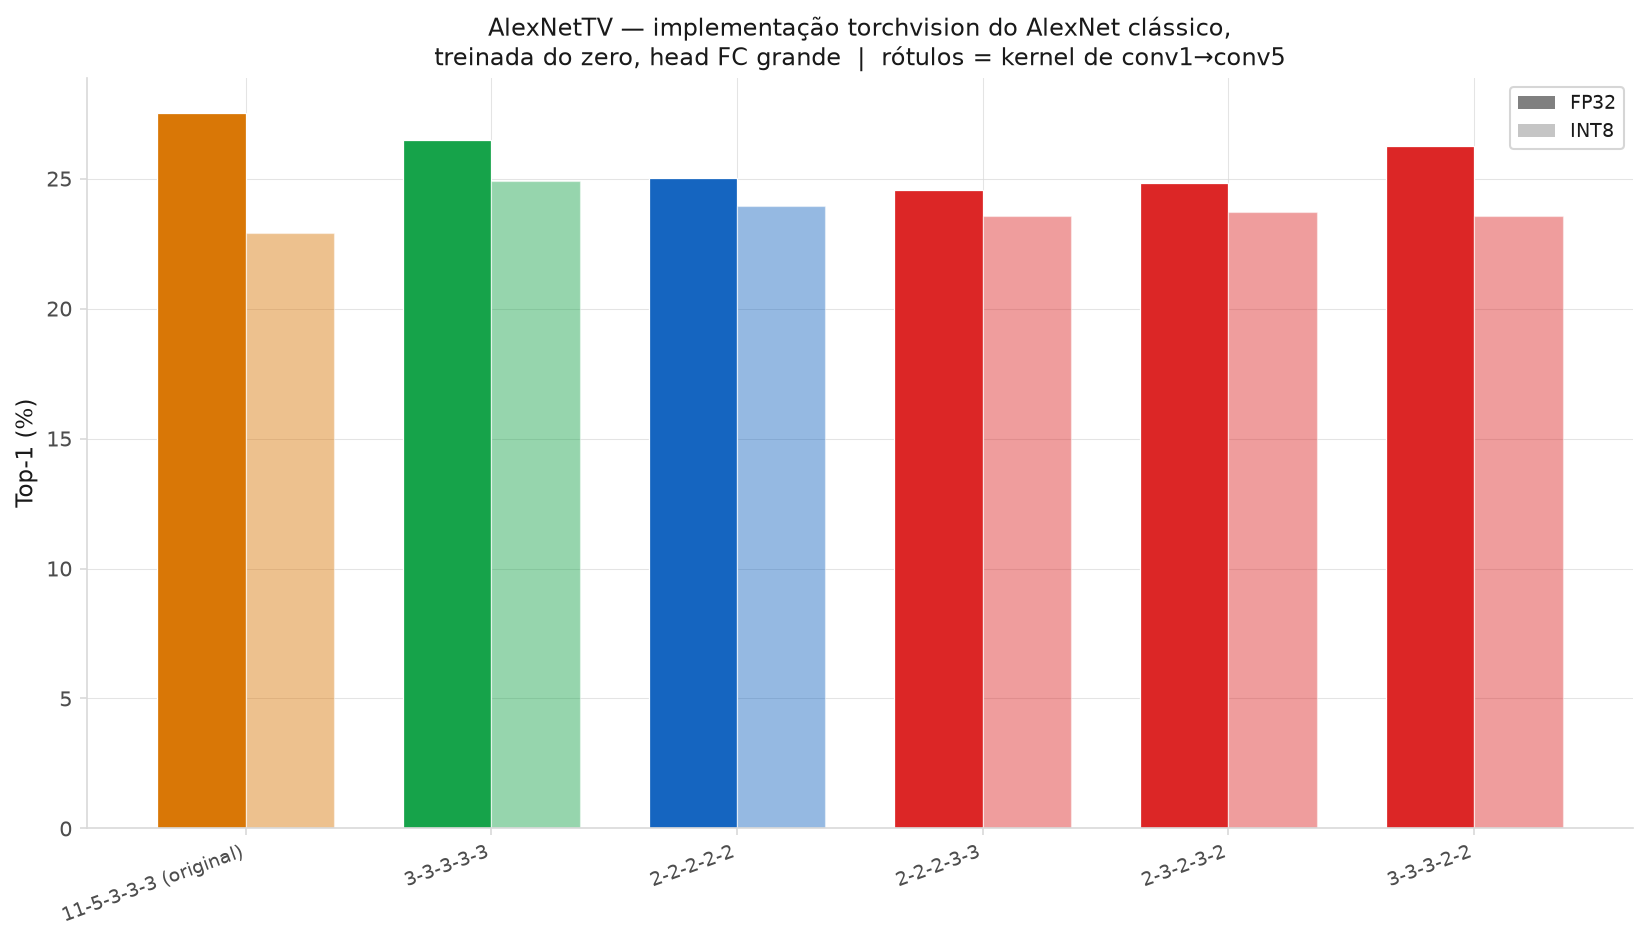
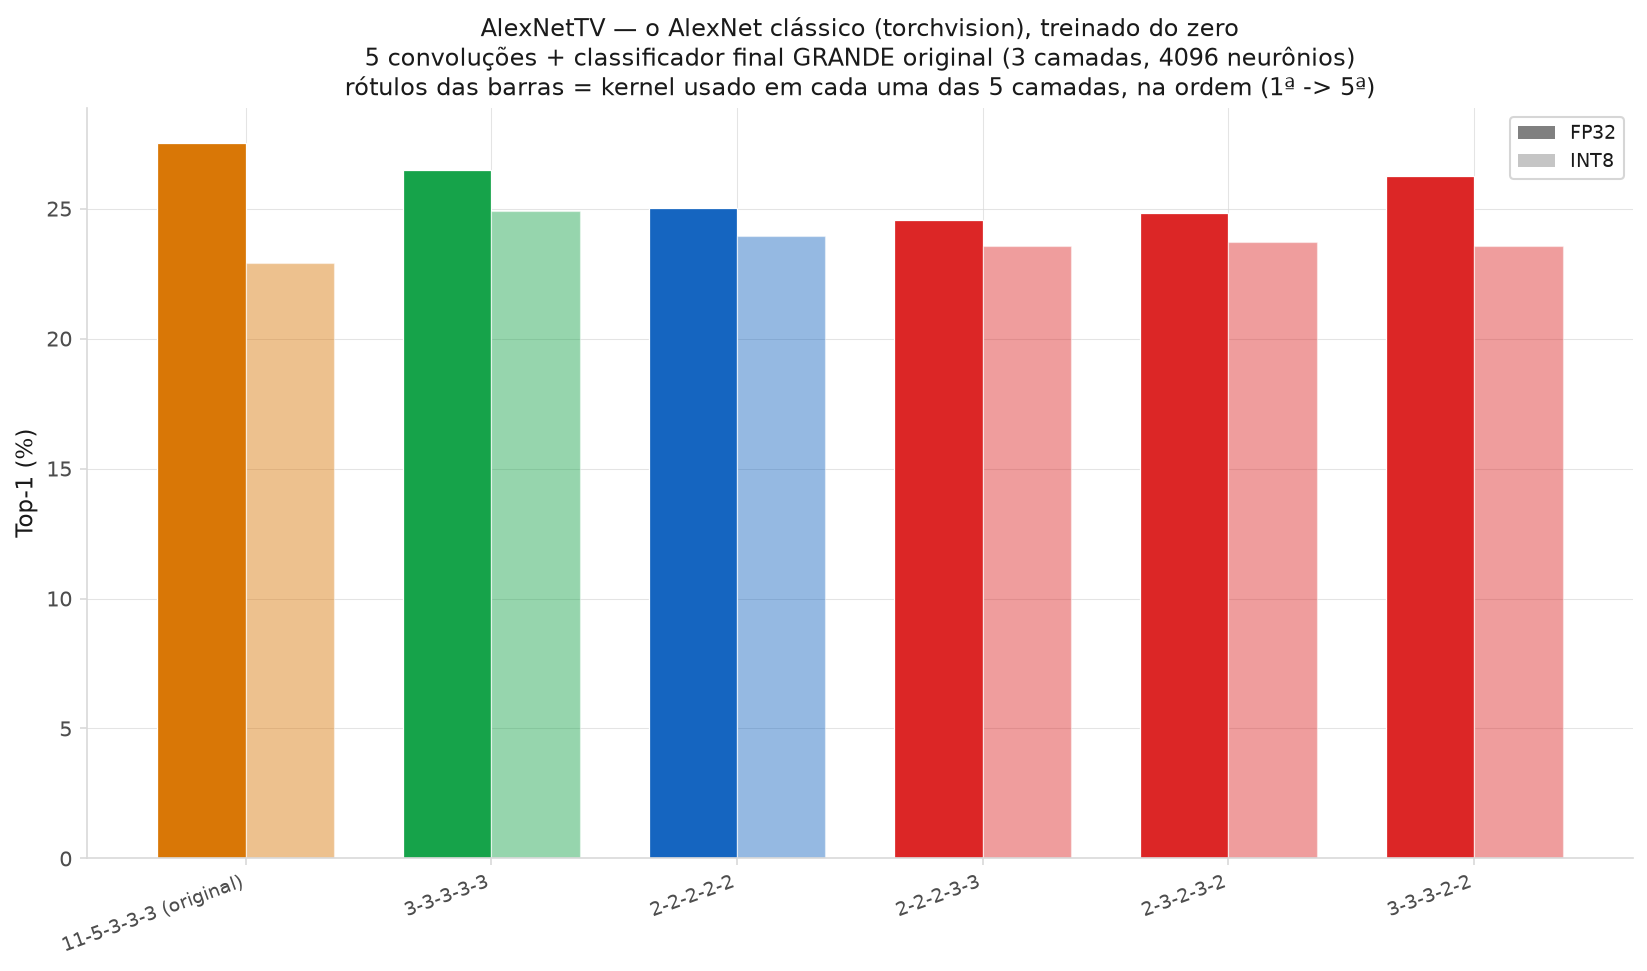
polish: explain "AlexNet compacto" in plain terms, no codebase context needed
Replace file-path/jargon references (models/alexnet_variants.py, "head
GAP/FC") with a plain description anyone can read off the chart: same 5
convolutions as AlexNet, but a 1-layer classifier instead of the original's
3-layer/4096-neuron one -- which is why it's tens of MB smaller. Applied to
chart titles (02-04), the family x-axis labels (05), and the overview's
subtitle explaining the "AlexNet"/"TV"/"VGG16" short tags.

Also widens chart 05's category spacing (0/2.1/4.2 instead of 0/1/2) so the
longer descriptive x-tick labels have room without colliding.

diff --git a/scripts/phase11/plot_kernel_comparison.py b/scripts/phase11/plot_kernel_comparison.py
@@ -108,7 +108,11 @@ def fig_overview(models):
     ax.set_xscale("log")
     ax.set_xlabel("Tamanho do modelo (MB, escala log)")
     ax.set_ylabel("Top-1 (%)")
-    ax.set_title("Visão geral — todos os modelos do Phase 11 (○ FP32  □ INT8, \"G\" = head GAP)")
+    ax.set_title(
+        "Visão geral — todos os modelos do Phase 11 (○ FP32  □ INT8, \"G\" = classificador final enxuto/GAP)\n"
+        "\"AlexNet\" = versão enxuta (classificador final de 1 camada)   "
+        "\"TV\"/\"VGG16\" = classificador final grande (3 camadas)",
+        fontsize=12)
     bar_group_legend(ax, outside=True)
     savefig(fig, "01_overview_accuracy_vs_size.png")
 
@@ -142,14 +146,16 @@ def fig_family_bar(models, family, filename, title):
 def fig_2x2_vs_3x3(models):
     families = ["AlexNet compacto (Phase 2)", "AlexNetTV", "VGG16"]
     # Each x-tick spells out exactly which network + head this bar pair is, so the
-    # chart stands on its own without needing charts 02-04 open alongside it.
+    # chart stands on its own without needing charts 02-04 open alongside it. Positions
+    # are spread out (not 0,1,2) so the 2-line descriptions have room, not overlap.
     family_desc = {
-        "AlexNet compacto (Phase 2)": "AlexNet compacto (Phase 2)\nCNN própria do projeto\n(models/alexnet_variants.py)\nhead GAP, 5 convs",
-        "AlexNetTV": "AlexNetTV\ntorchvision, treinado do zero\n(models/baselines.py)\nhead FC grande, 5 convs",
-        "VGG16": "VGG16\ntorchvision, treinado do zero\n(models/baselines.py)\nhead FC, 13 convs",
+        "AlexNet compacto (Phase 2)": "AlexNet compacto (Phase 2)\nclassificador final ENXUTO (1 camada)\n-> modelo pequeno, poucos MB",
+        "AlexNetTV": "AlexNetTV\nclassificador final GRANDE\n(3 camadas, 4096 neurônios) -> ~220 MB",
+        "VGG16": "VGG16 (rede mais profunda, 13 convs)\nclassificador final GRANDE\n(3 camadas) -> ~500 MB",
     }
-    fig, ax = plt.subplots(figsize=(9.5, 7))
-    width = 0.18
+    xpos = [0, 2.1, 4.2]
+    fig, ax = plt.subplots(figsize=(13, 7))
+    width = 0.35
     for i, pattern in enumerate(["2x2", "3x3"]):
         fp32 = []
         for fam in families:
@@ -157,13 +163,13 @@ def fig_2x2_vs_3x3(models):
             # each (family, pattern) pair here has exactly one entry regardless of head.
             cands = [m for m in models if m["family"] == fam and m["pattern"] == pattern]
             fp32.append(cands[0]["fp32_top1"] if cands else float("nan"))
-        offset = (i - 0.5) * width * 2
-        ax.bar([j + offset for j in range(len(families))], fp32, width * 1.8,
+        offset = (i - 0.5) * width
+        ax.bar([x + offset for x in xpos], fp32, width * 0.95,
                color=PATTERN_COLOR[pattern], label=pattern, edgecolor="white", lw=0.6)
-    ax.set_xticks(range(len(families)))
-    ax.set_xticklabels([family_desc[f] for f in families], fontsize=8.5)
+    ax.set_xticks(xpos)
+    ax.set_xticklabels([family_desc[f] for f in families], fontsize=9.5)
     ax.set_ylabel("Top-1 FP32 (%)")
-    ax.set_title("2x2 vs 3x3 uniforme (todas as camadas) — 3 arquiteturas treinadas do zero,\ncada uma com seu próprio head (GAP ou FC)")
+    ax.set_title("2x2 vs 3x3 uniforme (todas as camadas) — 3 arquiteturas treinadas do zero,\ncada uma com seu próprio classificador final (enxuto ou grande)")
     ax.legend(title="Kernel", fontsize=9)
     savefig(fig, "05_2x2_vs_3x3_by_family.png")
 
@@ -256,16 +262,18 @@ def main():
 
     fig_overview(models)
     fig_family_bar(models, "AlexNet compacto (Phase 2)", "02_kernel_pattern_alexnet_gap.png",
-                    "AlexNet compacto (Phase 2) — CNN própria do projeto\n"
-                    "(models/alexnet_variants.py, NÃO é o AlexNet original), head GAP\n"
-                    "rótulos = kernel de conv1→conv5")
+                    "AlexNet compacto (Phase 2) — NÃO é o AlexNet original\n"
+                    "Mesmas 5 convoluções do AlexNet, mas com classificador final ENXUTO\n"
+                    "(1 camada, em vez das 3 camadas de 4096 neurônios do original) -> modelo pequeno\n"
+                    "rótulos das barras = kernel usado em cada uma das 5 camadas, na ordem (1ª -> 5ª)")
     fig_family_bar([m for m in models if m["family"] == "AlexNetTV" and m["head"] == "FC"],
                     "AlexNetTV", "03_kernel_pattern_alexnettv_fc.png",
-                    "AlexNetTV — implementação torchvision do AlexNet clássico,\n"
-                    "treinada do zero, head FC grande  |  rótulos = kernel de conv1→conv5")
+                    "AlexNetTV — o AlexNet clássico (torchvision), treinado do zero\n"
+                    "5 convoluções + classificador final GRANDE original (3 camadas, 4096 neurônios)\n"
+                    "rótulos das barras = kernel usado em cada uma das 5 camadas, na ordem (1ª -> 5ª)")
     fig_family_bar(models, "VGG16", "04_kernel_pattern_vgg16.png",
-                    "VGG16 — torchvision, treinada do zero, head FC\n"
-                    "kernel uniforme nas 13 convs (não há uma versão \"mista\" testada)")
+                    "VGG16 (torchvision), treinada do zero — rede mais profunda, 13 convoluções\n"
+                    "kernel igual em todas as 13 camadas (não existe uma versão \"mista\" desta rede)")
     fig_2x2_vs_3x3(models)
     fig_head_accuracy(models)
     fig_head_size(models)
